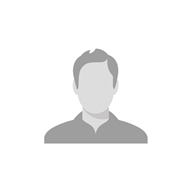
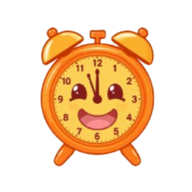
Versione v0.2.36 - Aggiorna le icone PWA

diff --git a/app_config.php b/app_config.php
@@ -1,7 +1,7 @@
 <?php
 
 if (!defined('APP_VERSION')) {
-    define('APP_VERSION', '0.2.35');
+    define('APP_VERSION', '0.2.36');
 }
 
 if (!defined('PUSH_VAPID_SUBJECT')) {
